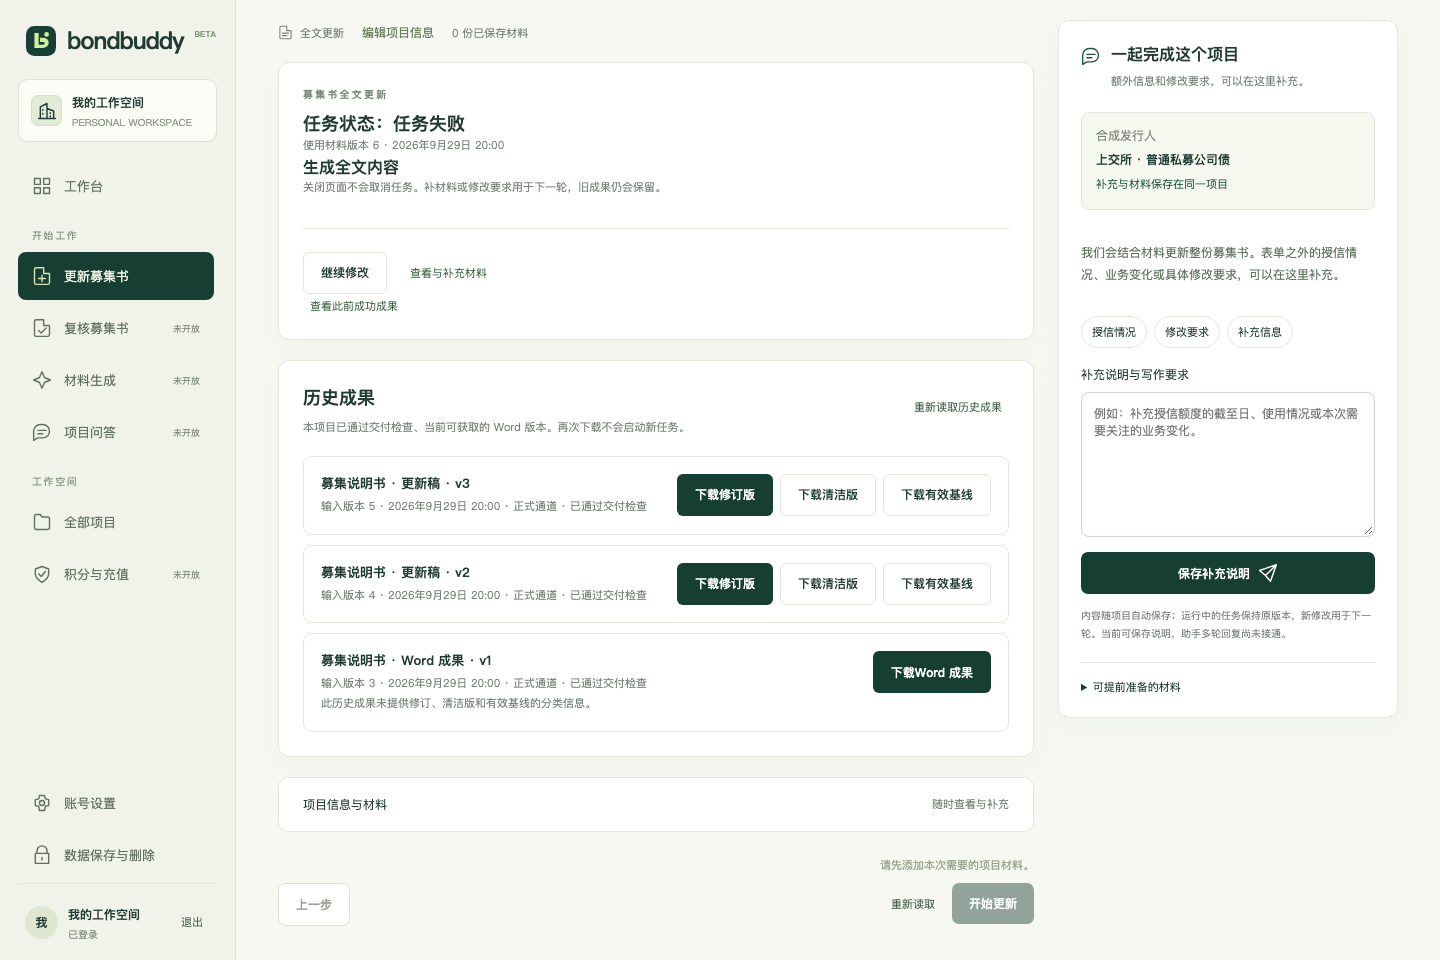
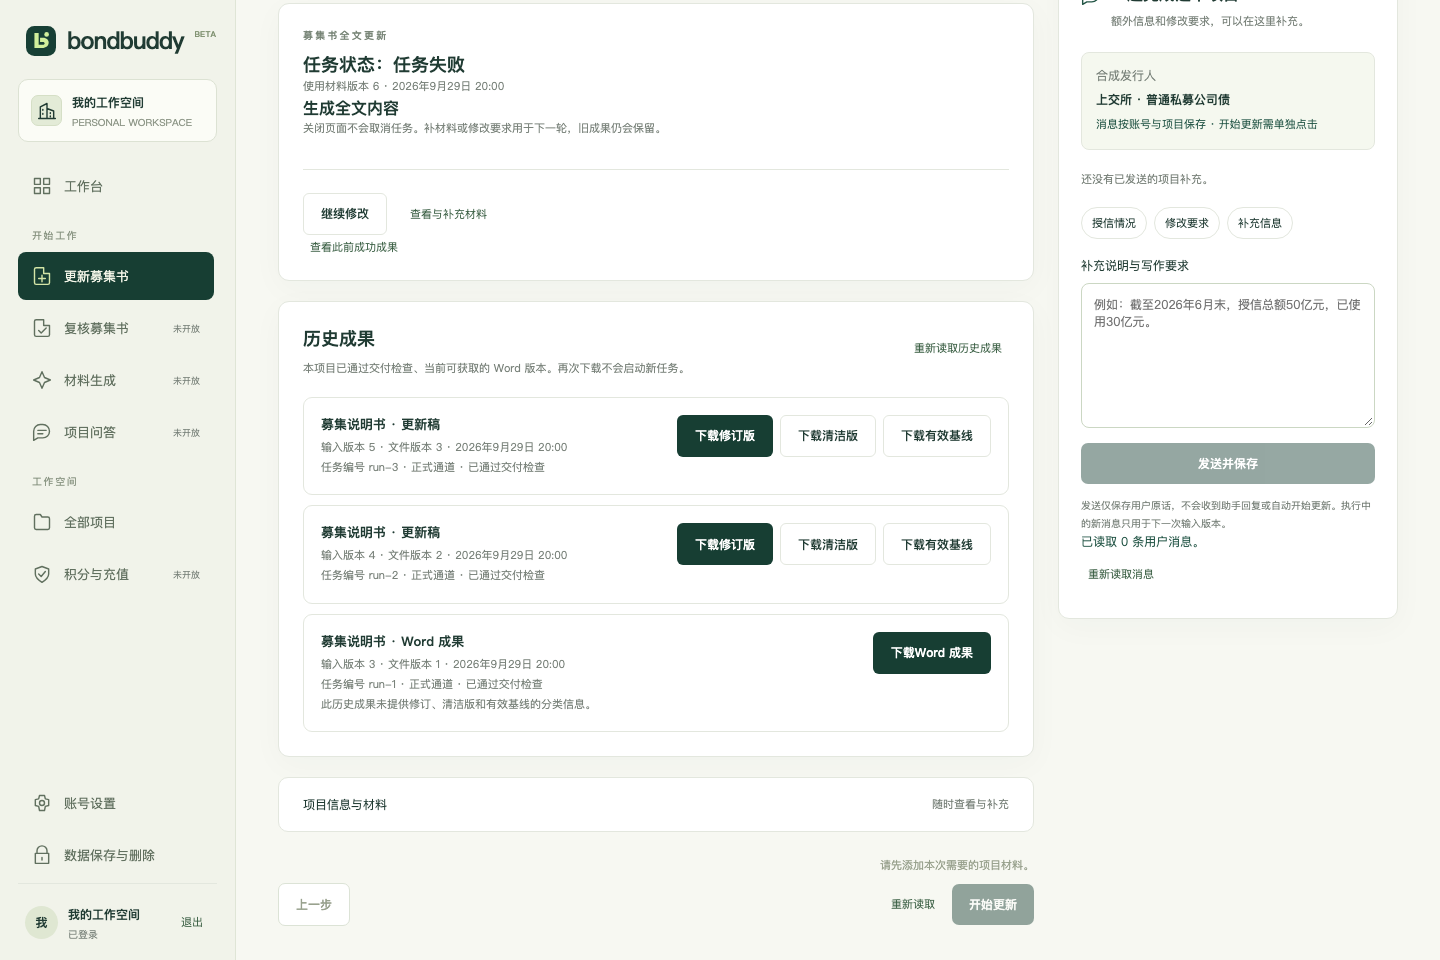
docs(web): compare history with integrated message workspace

diff --git a/apps/web/ux-evidence/issue-34-history/README.md b/apps/web/ux-evidence/issue-34-history/README.md
@@ -1,6 +1,6 @@
 # #34 同项目 Word 版本目录 · 原型对照
 
-依据：`product-prototype/design-previews/update-workspace.fragment.html` 与导出页 `product-prototype/public/previews/update-workspace.html`，#85 head `46764161565027f332bdf28f8b335620bd035018`，完成态 `completeView()`；原有真实应用来源为 `product-prototype/public/project-workspace.js` 和 `apps/web/src/project-execution.ts`。当前实现使用 #471 的 `ArtifactHistoryResponse`（merge `290d4c34368f86885ac6b009edca0262afc10e4d`）。实现 UI 代码为 `940ad39`（包含 #388/#467 的 `develop` merge `466aef2`），本次失败场景夹具及截图更新于 `9644225`；若合并前再次 rebase，则更新 head 和截图。
+依据：`product-prototype/design-previews/update-workspace.fragment.html` 与导出页 `product-prototype/public/previews/update-workspace.html`，#85 head `46764161565027f332bdf28f8b335620bd035018`，完成态 `completeView()`；原有真实应用来源为 `product-prototype/public/project-workspace.js` 和 `apps/web/src/project-execution.ts`。当前实现使用 #471 的 `ArtifactHistoryResponse`（merge `290d4c34368f86885ac6b009edca0262afc10e4d`）。实现截图的代码 head 为 `c954327`（以含 #388/#467/#475/#477/#478 的 `develop` merge `16340bb` 为基线）；若合并前再次改变 UI，则更新 head 和截图。
 
 截图均为 Chromium 同尺寸**视口**截图（非全页），桌面 1440×960、手机 390×844。原型使用 #85 独立预览页并点选“已完成”；实现使用合成 HTTP/Word 字节模拟本项目已有三个成功版本且新任务失败，滚动至目录。截图是交互对照，不是真实模型、Blob、授权客户成果或 Word/WPS 实机验收。
 
@@ -13,6 +13,7 @@
 |---|---|---|
 | 原型完成卡仅展示当前 vN 的修订/清洁下载及“下一轮生成新版本，保留当前稿”；实现于**同一项目结果区**增加独立“历史成果”卡，列出所有仍可获取版本和三件套或旧单件 | #34 明确要求能找回多次成功交付，后续任务失败不能遮蔽旧稿；保持既有左右布局、右侧项目协作、导航与主操作不变，不增加新页面 | **待产品负责人确认；未确认前保持草稿，不合并** |
 | 原型用演示完成状态和下载提示；实现使用真实分页列表、当前运行状态及每个文件的授权读取；“文件版本”不是项目级 vN | 只读接口返回当前检查通过的结果；实际新 run 通常各自产生文件版本 1，因此按输入版本、完成时刻及任务编号识别历史运行，文件名含唯一 artifact ID；不把演示下载、存疑 Word 或测试稿展示成生产成果 | 既有 API/运行边界，无新增交互确认 |
+| 原型右侧有模拟助手回复；实现右侧为 #475 已合并的用户消息保存/版本读取，无伪造回复 | 历史目录与 #18 的 composer、消息列表和输入 pin 并存；合成截图显示零条已保存消息 | #18 独立交付；不作为目录的新流程 |
 | 截图原型为成功、实现为较新任务失败 | 特意展示历史目录在新任务失败后仍可见；已完成态保留既有成果详情卡，目录仍在同一工作区 | 属于功能验收场景，不是原型状态文案的替换 |
 
-若后续 #384、#361 或 #18 改变同一工作区布局、协作区或操作文案，合并前重基于最新 `develop` 并重新截取/对照。这些合成截图不代表 #35 模型→Blob→授权下载或 #146 WPS/Word 兼容性已验收；#34 保持开放。
+上述截图已基于 #384、#361、#18 的合并版本重新获取；后续 UI 若再改变工作区布局、协作区或操作文案，合并前重新截取/对照。这些合成截图不代表 #35 模型→Blob→授权下载或 #146 WPS/Word 兼容性已验收；#34 保持开放。
